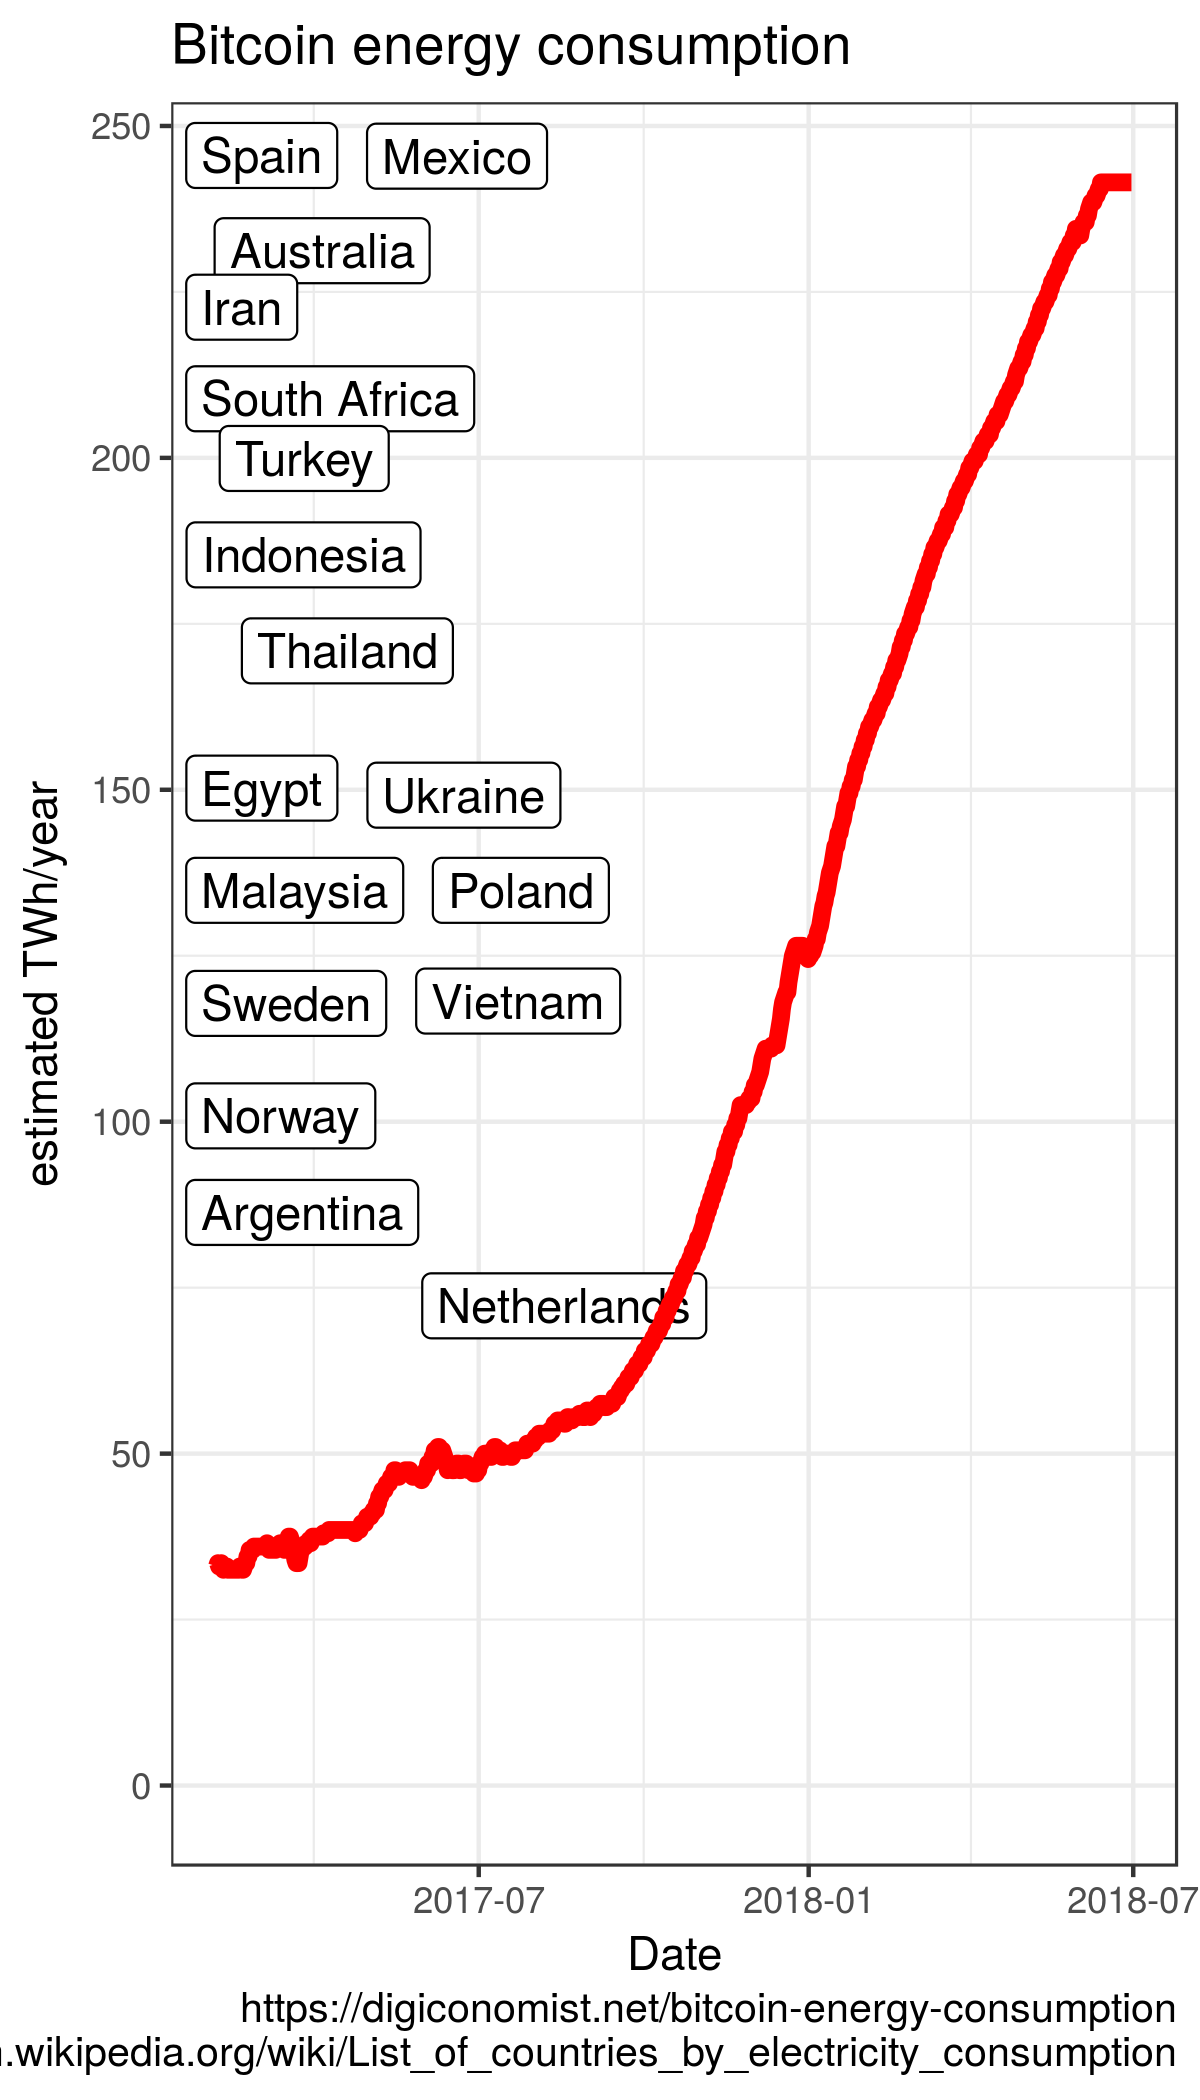
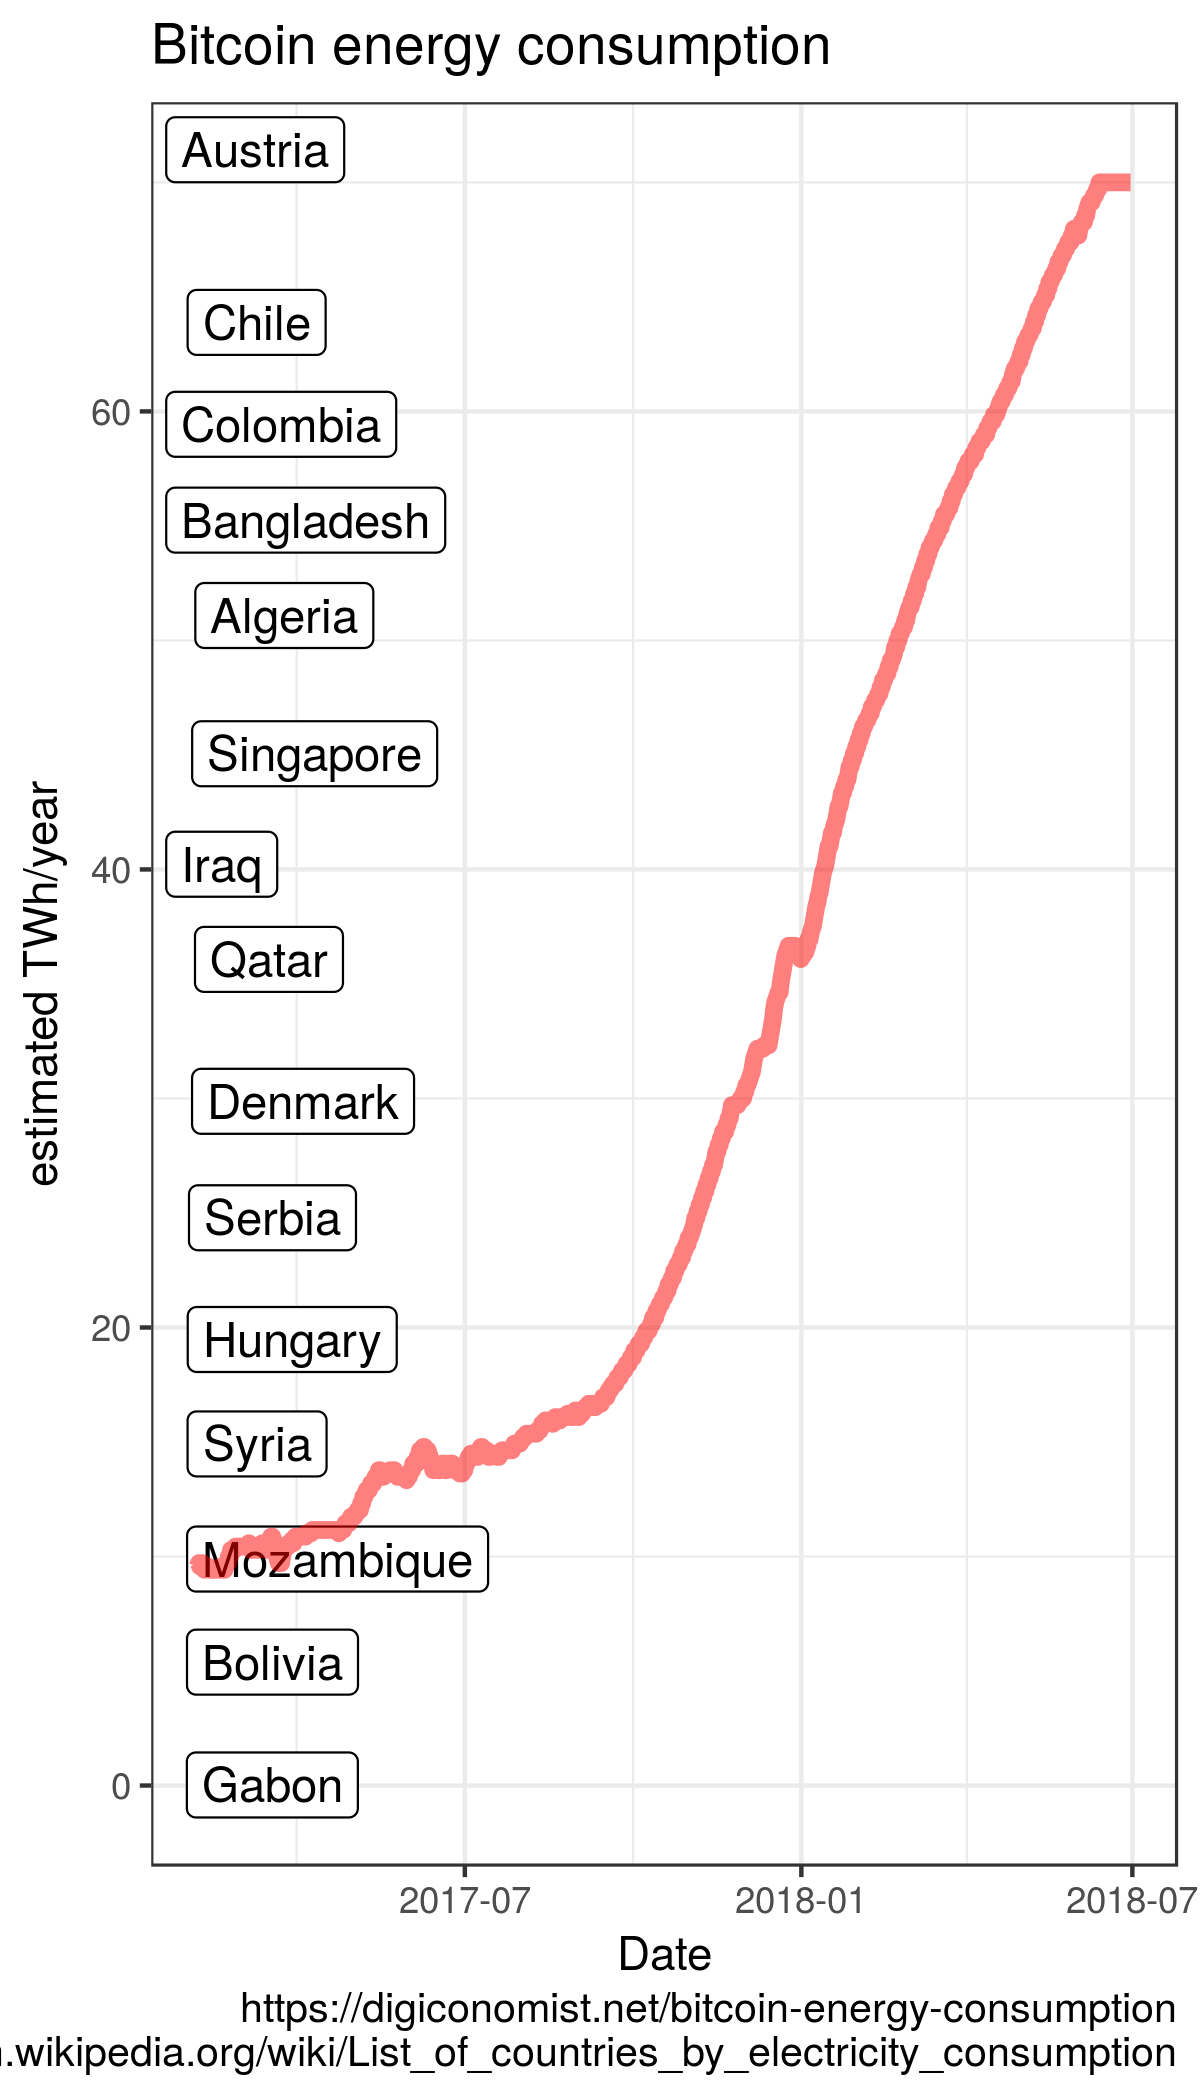
still working on isec talk

diff --git a/isec_TODO.md b/isec_TODO.md
@@ -1,5 +1,4 @@
 - replicate Burnham and Anderson sims?
 - elasticnet vs MMA timing?
-- bitcoin chart? https://digiconomist.net/bitcoin-energy-consumption
-
-- comment on prediction (application) vs inference (basic science)
+- acknowledgements
+- slide format/pausing
